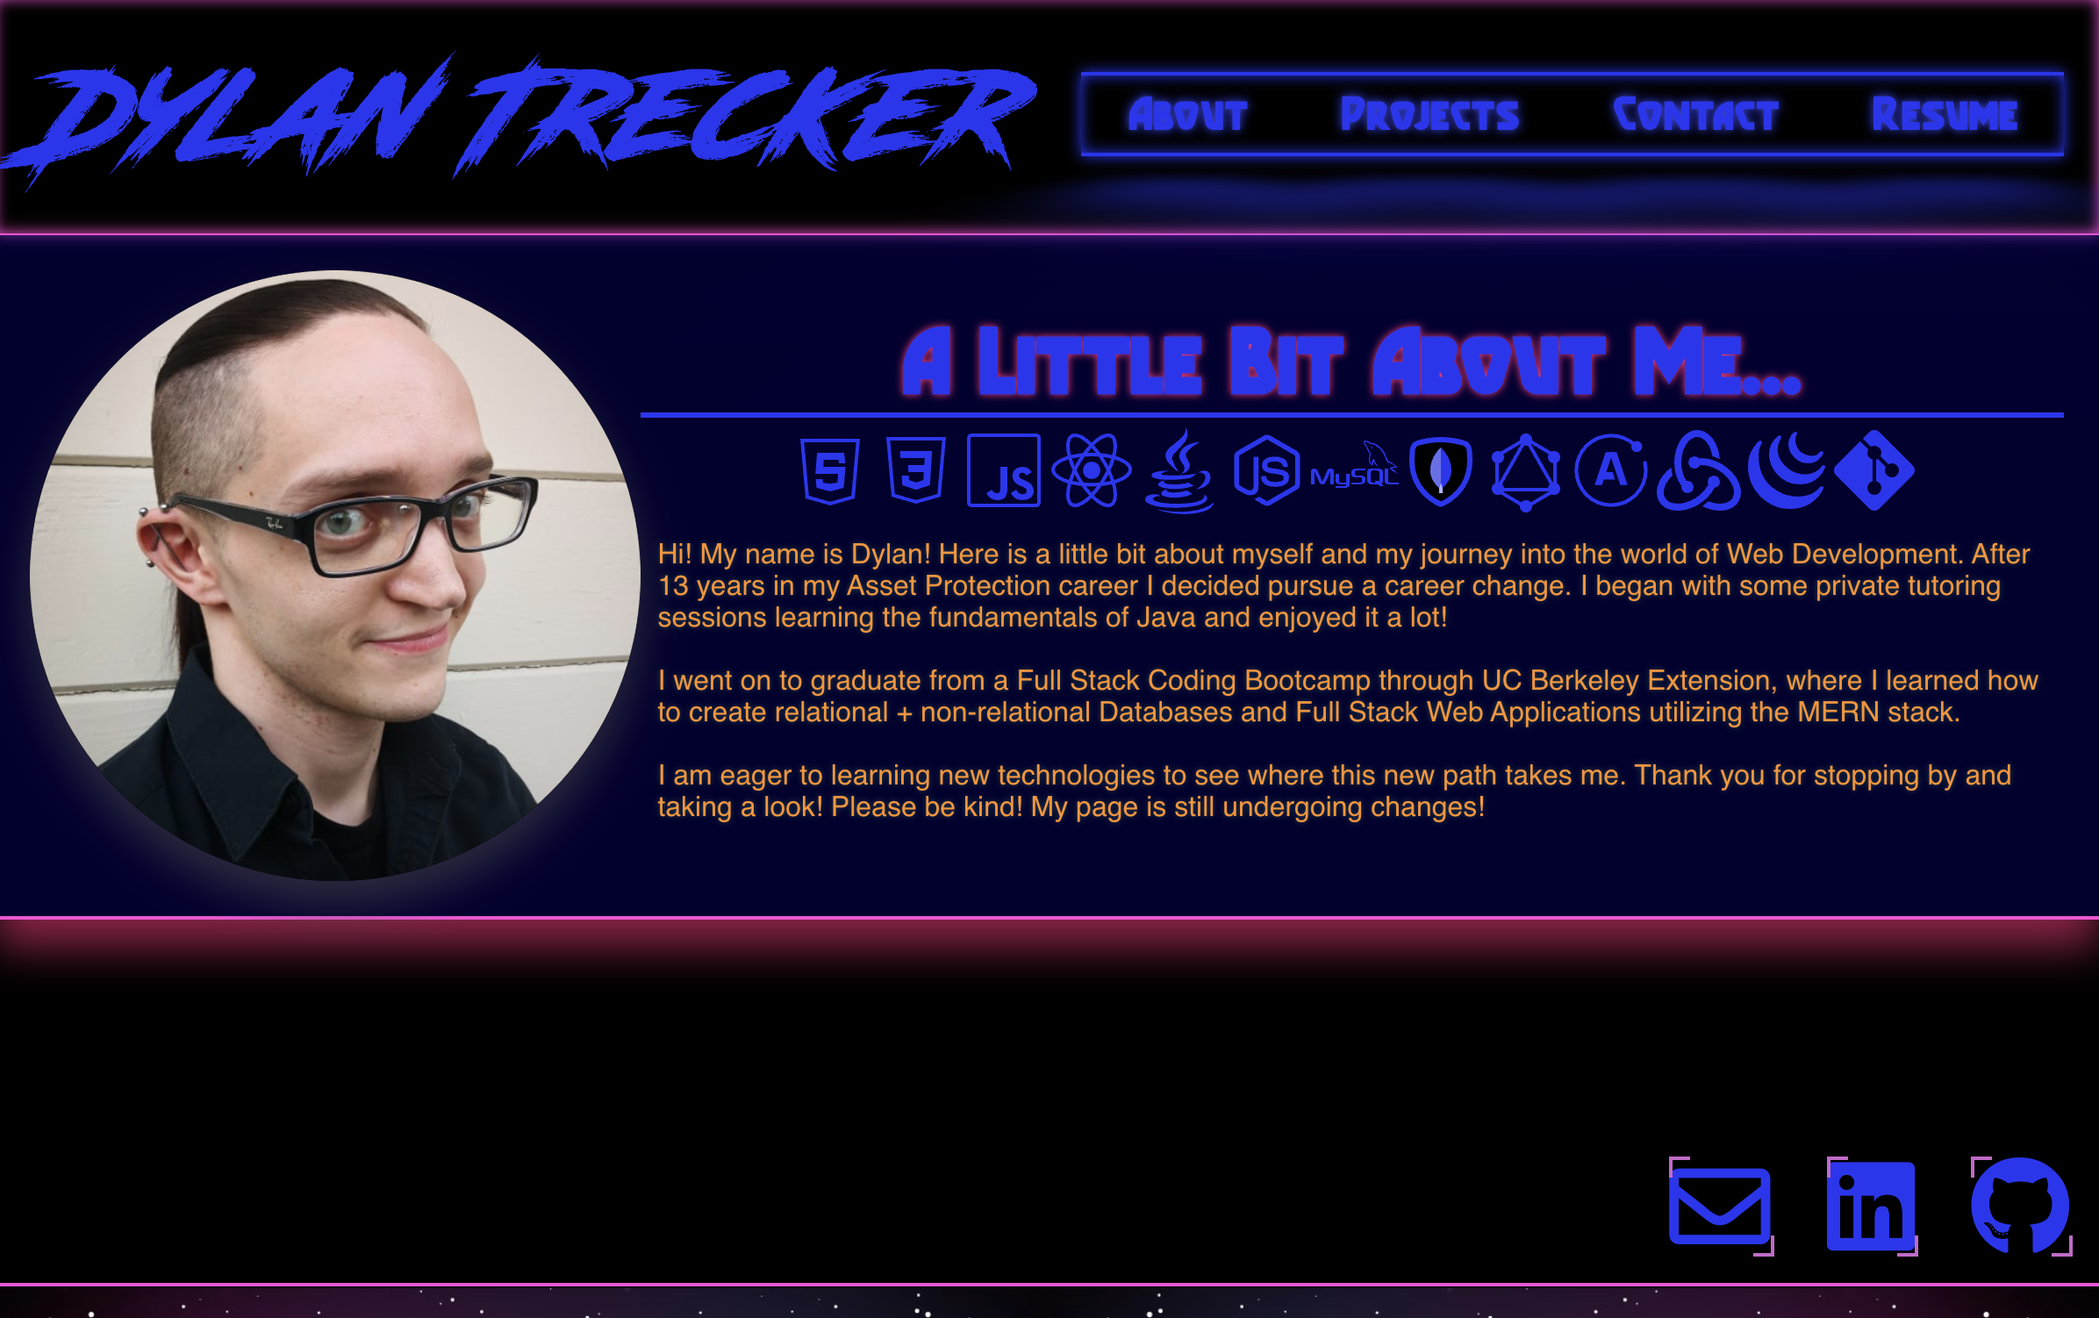
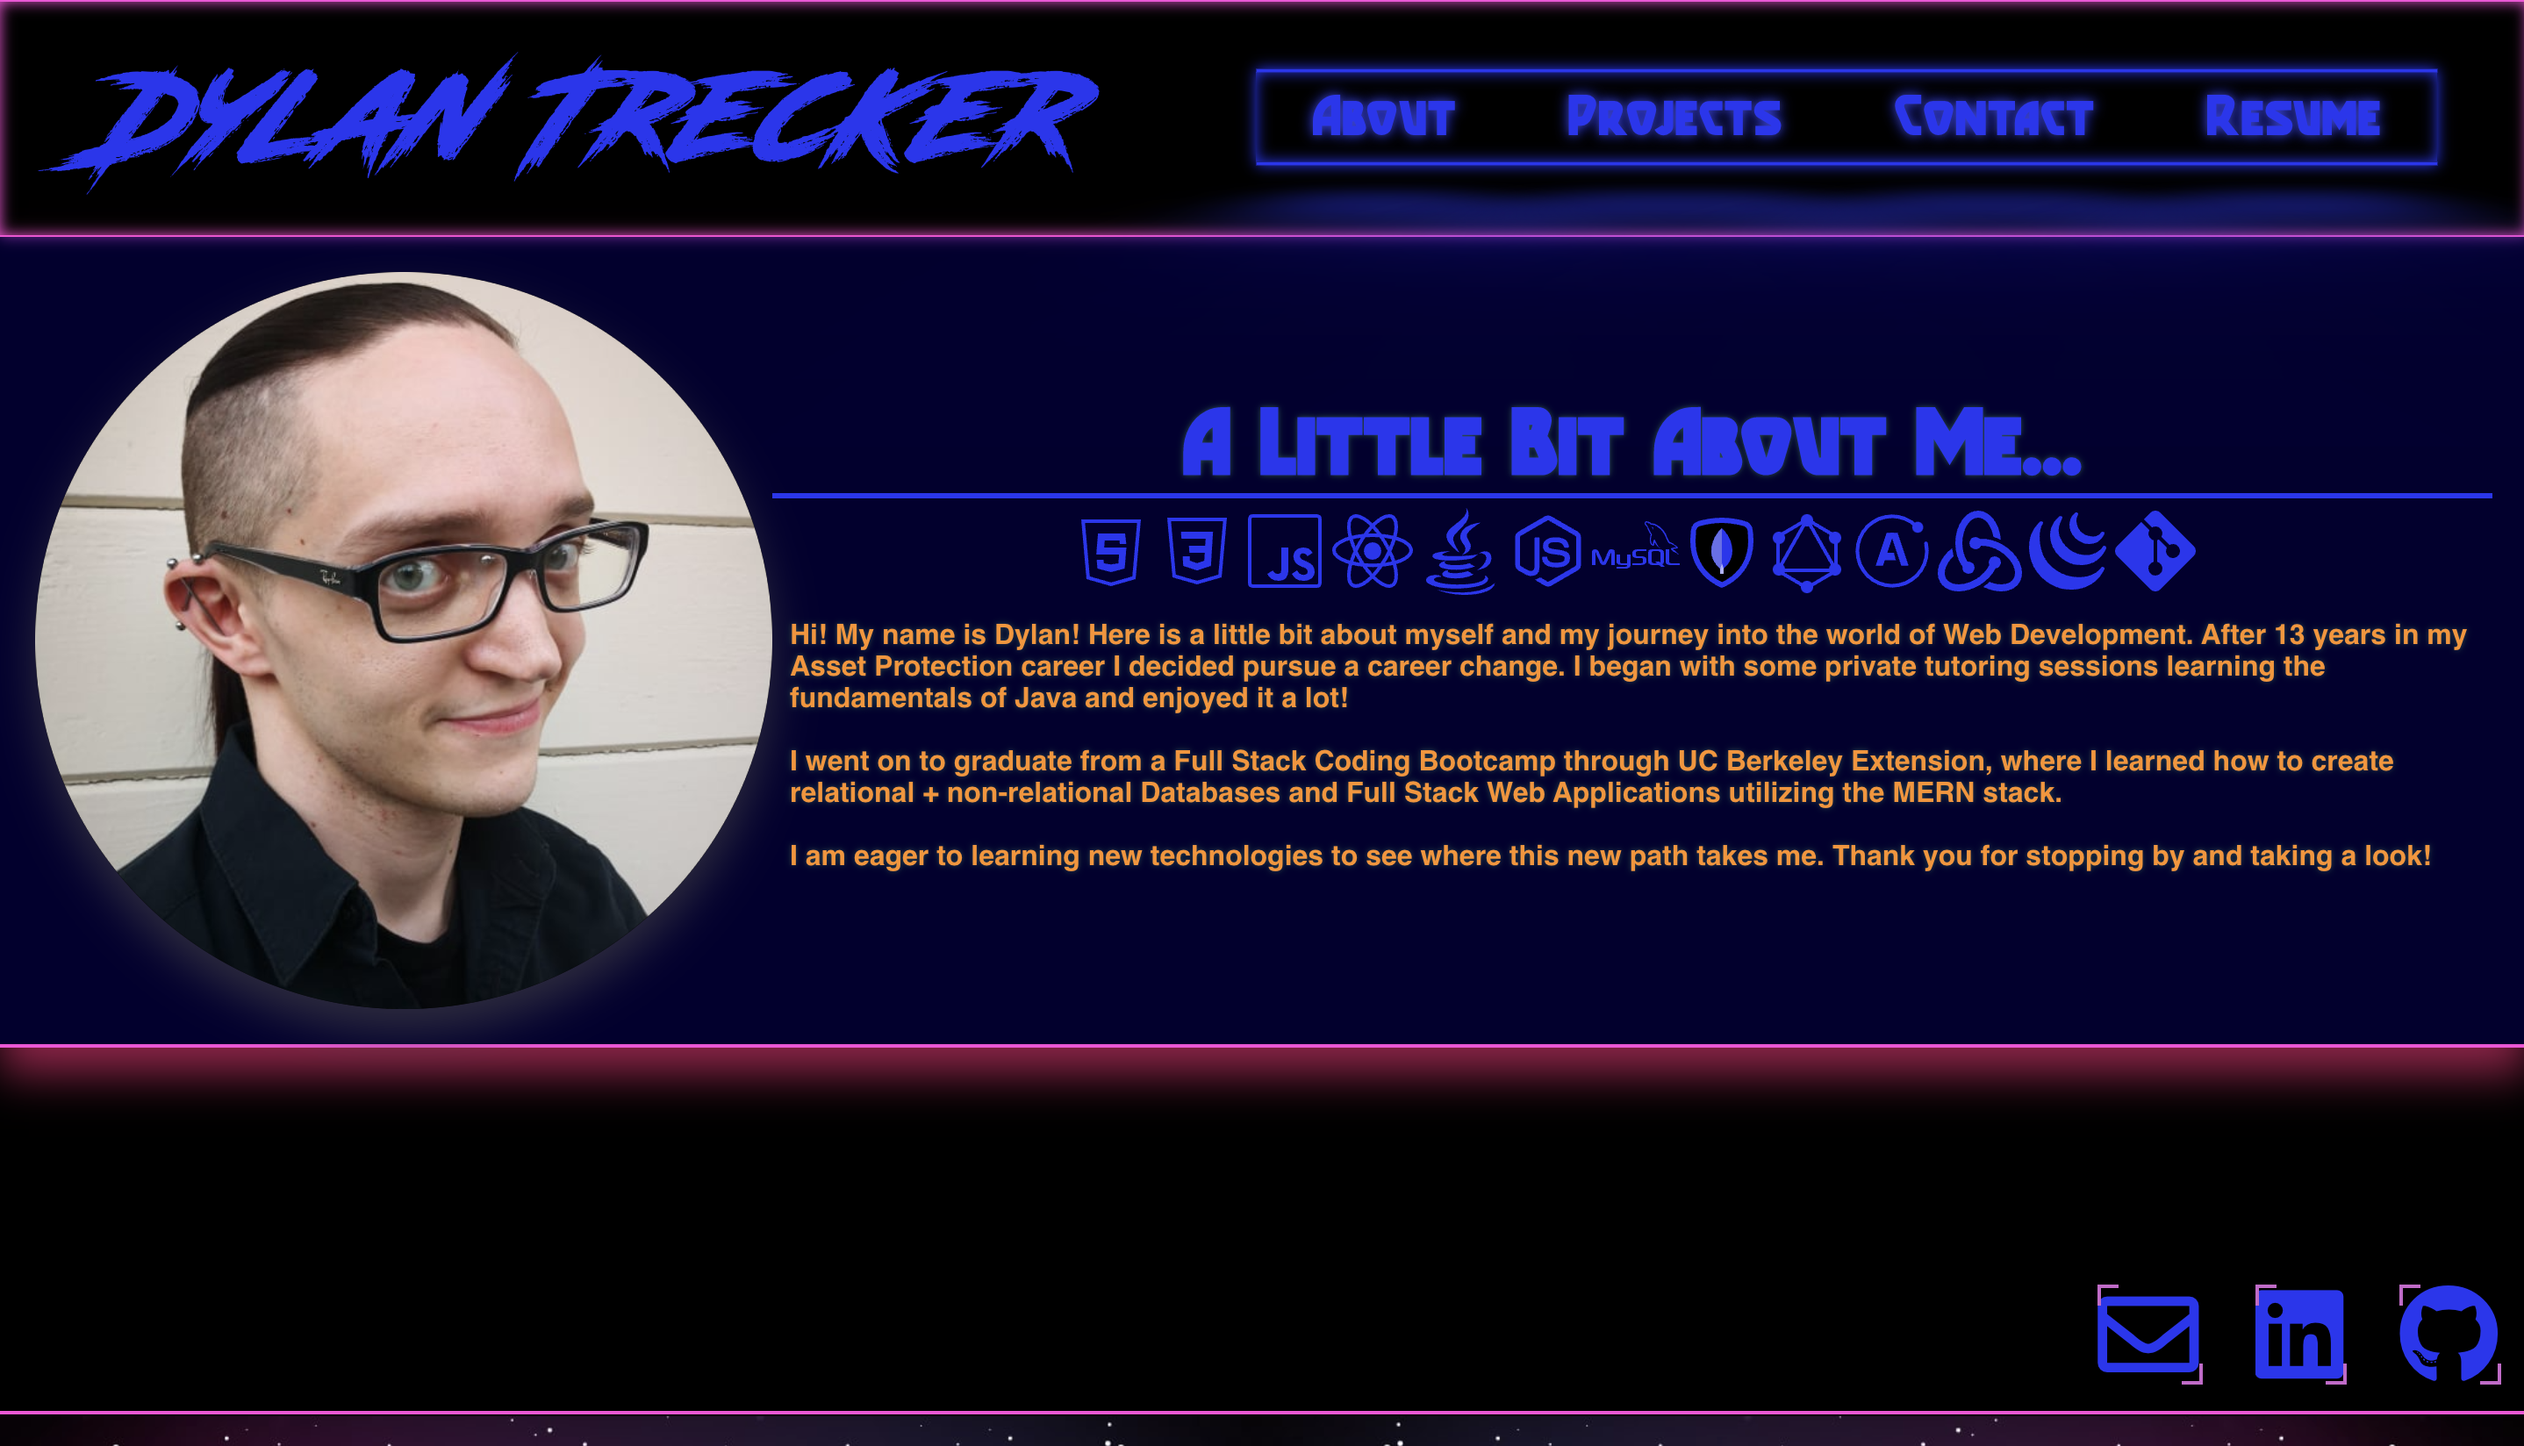
updated project page and readme

diff --git a/src/components/Work/index.js b/src/components/Work/index.js
@@ -3,11 +3,12 @@ import { motion } from "framer-motion";
 import "./style.css";
 import quizTime from "../../assets/images/quiz-time.png";
 import dtScheduler from "../../assets/images/Scheduler.png";
-import weatherReport from "../../assets/images/weather-report.png";
+// import weatherReport from "../../assets/images/weather-report.png";
 import poh from "../../assets/images/poh.png";
 import justNoise from "../../assets/images/just-noise.png";
 import coolNotes from "../../assets/images/cool-notes.png";
 import kissAnime from "../../assets/images/kiss-anime.png";
+import cryptoGrid from "../../assets/images/crypto-grid.png";
 // import comingSoon from "../../assets/images/dyl-soon.jpg";
 
 function Work() {
@@ -72,6 +73,48 @@ function Work() {
               <br />
               <p>Front end: React, Apollo Client</p>
               <p>Back end: Mongo DB, Mongoose, Express, Node</p>
+            </div>
+          </div>
+        </div>
+
+        <div className="project-card">
+          <div className="project-card-inner">
+            <div className="project-front">
+              <h3>Crypto Grid</h3>
+              <img
+                src={cryptoGrid}
+                alt="A cryptocurrency app"
+                className="project-images"
+              ></img>
+            </div>
+            <div className="project-back">
+              <h3>
+                Project Details{" "}
+                <a
+                  href="https://github.com/d-trecker/crypto-grid"
+                  target="blank"
+                  rel="noopener noreferrer"
+                >
+                  <i className="fab fa-github fa-1x "></i>
+                </a>
+              </h3>
+              <h4>
+                <a
+                  href="https://d-trecker.github.io/crypto-grid"
+                  target="blank"
+                  rel="noopener noreferrer"
+                >
+                  https://d-trecker.github.io/crypto-grid
+                </a>
+              </h4>
+              <br />
+              <p>
+                A Cryptocurrency application created with React and Redux
+                Toolkit that keeps visitors up to date with all cryptocurrency
+                news and details.
+                <br/> <br/> Data is pulled from Rapid API (Coinranking /
+                Bing News). Ant Design used for styled components.
+              </p>
             </div>
           </div>
         </div>

diff --git a/src/components/Resume/index.js b/src/components/Resume/index.js
@@ -36,7 +36,7 @@ function Resume() {
             </p>
             
             <div className= "iframe-container">
-            <iframe src="https://drive.google.com/file/d/1bYrLd9e6c1xKRJ2aEfXhvfxqxlQVWHMz/preview" width="640" height="480" allow="autoplay"></iframe>
+            <iframe src="https://drive.google.com/file/d/1bYrLd9e6c1xKRJ2aEfXhvfxqxlQVWHMz/preview" width="640" height="480" allow="autoplay" title="dt-resume"></iframe>
             
             </div>
             <a className= "resumeBtn" href= "https://drive.google.com/file/d/1cdW35PZXhjQFGlKB68ZBJwlzBnznUFew/view?usp=sharing" target= "blank" rel="noopener noreferrer">Download Resume</a>

diff --git a/src/components/About/index.js b/src/components/About/index.js
@@ -40,8 +40,7 @@ function About() {
           utilizing the MERN stack.
           <br></br>
           <br></br>I am eager to learning new technologies to see where this new
-          path takes me. Thank you for stopping by and taking a look! Please be
-          kind! My page is still undergoing changes!
+          path takes me. Thank you for stopping by and taking a look! 
         </p>
       </div>
     </motion.div>

diff --git a/src/components/Nav/style.css b/src/components/Nav/style.css
@@ -4,8 +4,8 @@ header {
   display: flex;
   flex-wrap: wrap;
   flex-direction: row;
-  border-top: solid 0.1rem var(--fourth-color);
-  border-bottom: solid 0.1rem var(--fourth-color);
+  border-top: solid 0.05rem var(--fourth-color);
+  border-bottom: solid 0.05rem var(--fourth-color);
   justify-content: space-around;
   padding-top: 0.5rem;
   padding-bottom: 10px;

diff --git a/README.md b/README.md
@@ -16,7 +16,7 @@ My personal react portfolio for showcasing my latest work.
 ### Setup
 To run locally: 
 * Start by cloning the repo by using the commands:
-* `$ git clone git@github.com:d-trecker/tracking-budgets.git`
+* `$ git clone git@github.com:d-trecker/dt-portfolio.git`
 * From the root directory of the cloned repo, use the command `npm i` 
 * Run `npm start` 
 
@@ -28,7 +28,7 @@ Created  with:
 * react-scripts: 4.0.3
 * react-router-dom: ^5.2.0
 * fontawesome-free: ^5.15.4
-
+* framer-motion: ^4.1.17
 
 ### Links
 Repo Link: https://github.com/d-trecker/dt-portfolio.git </br>
